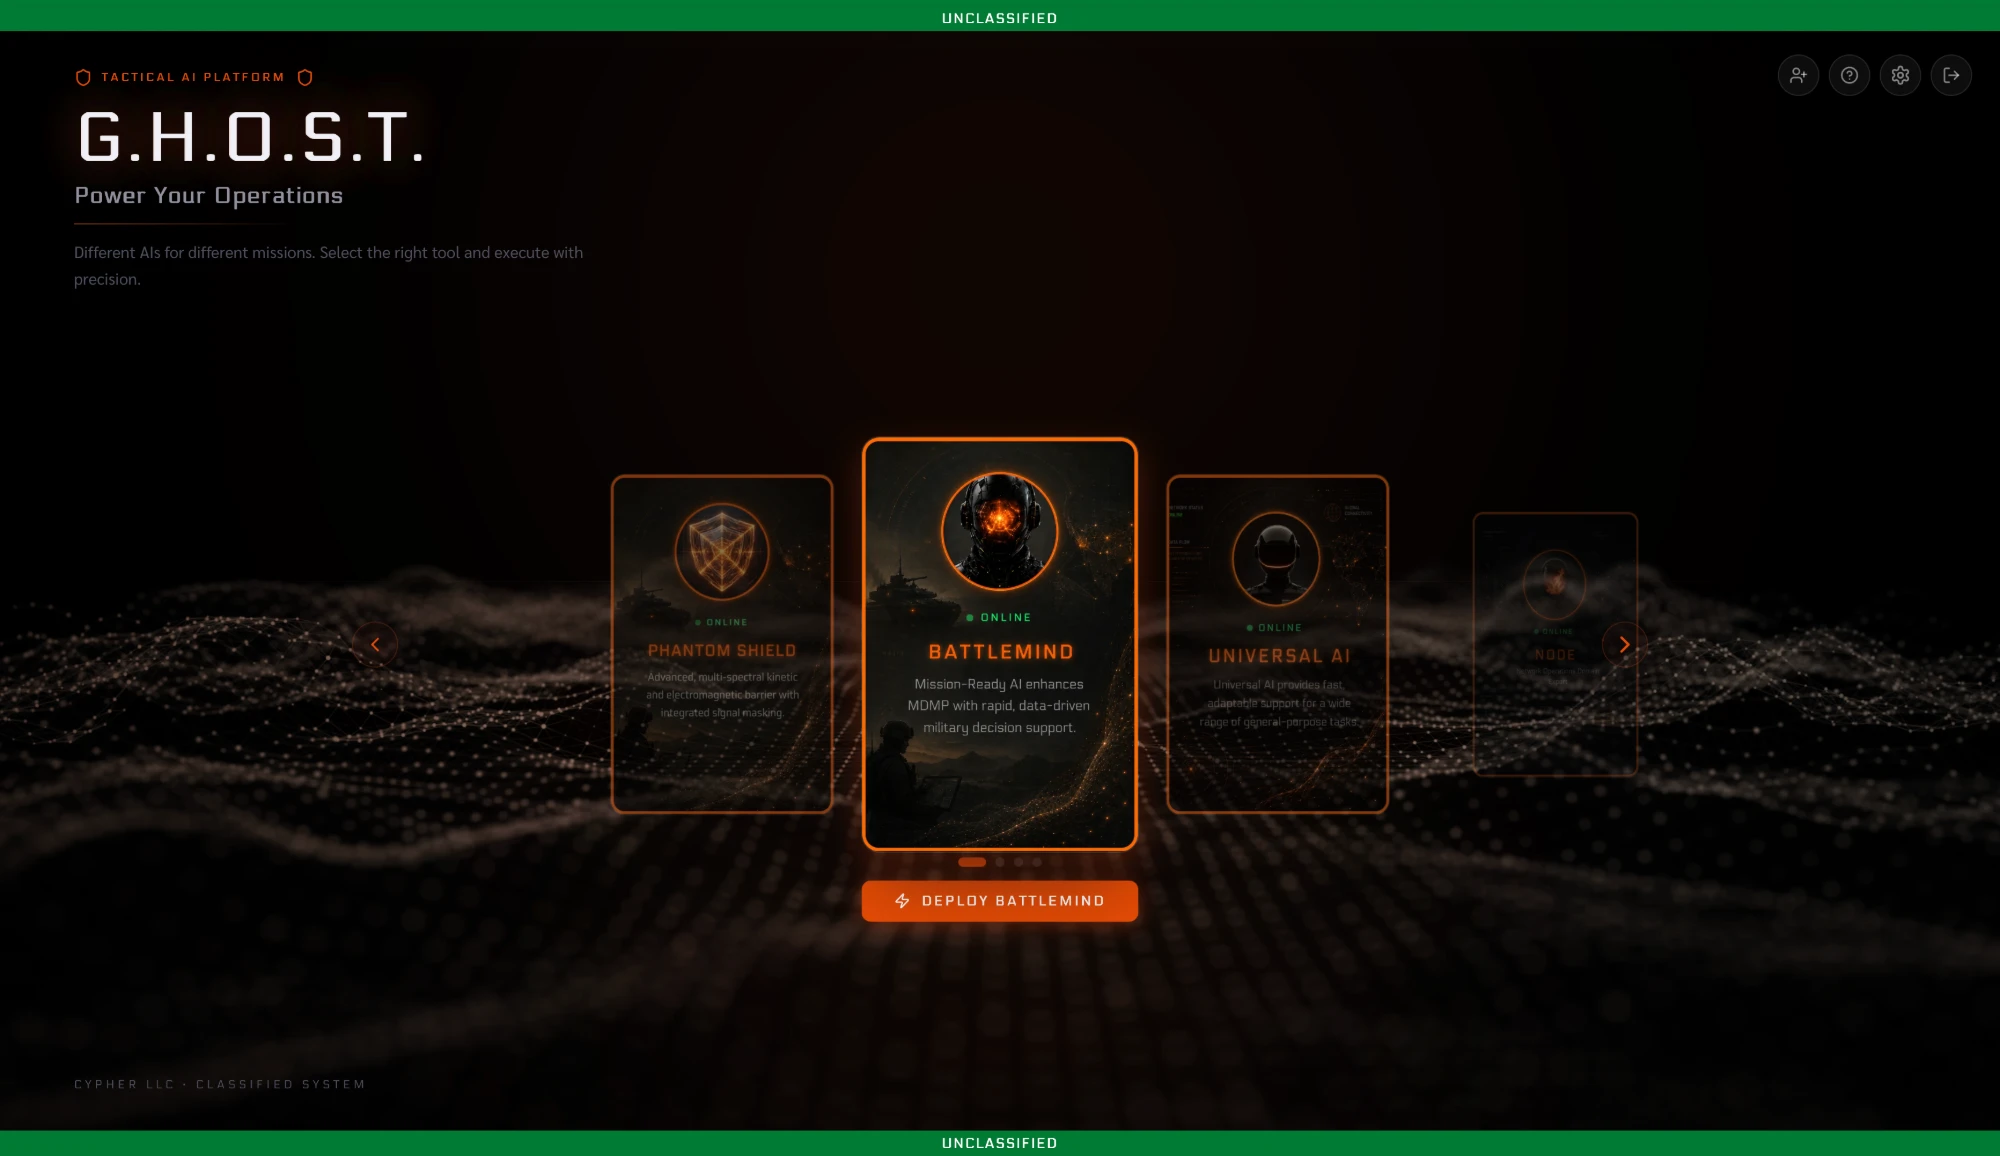
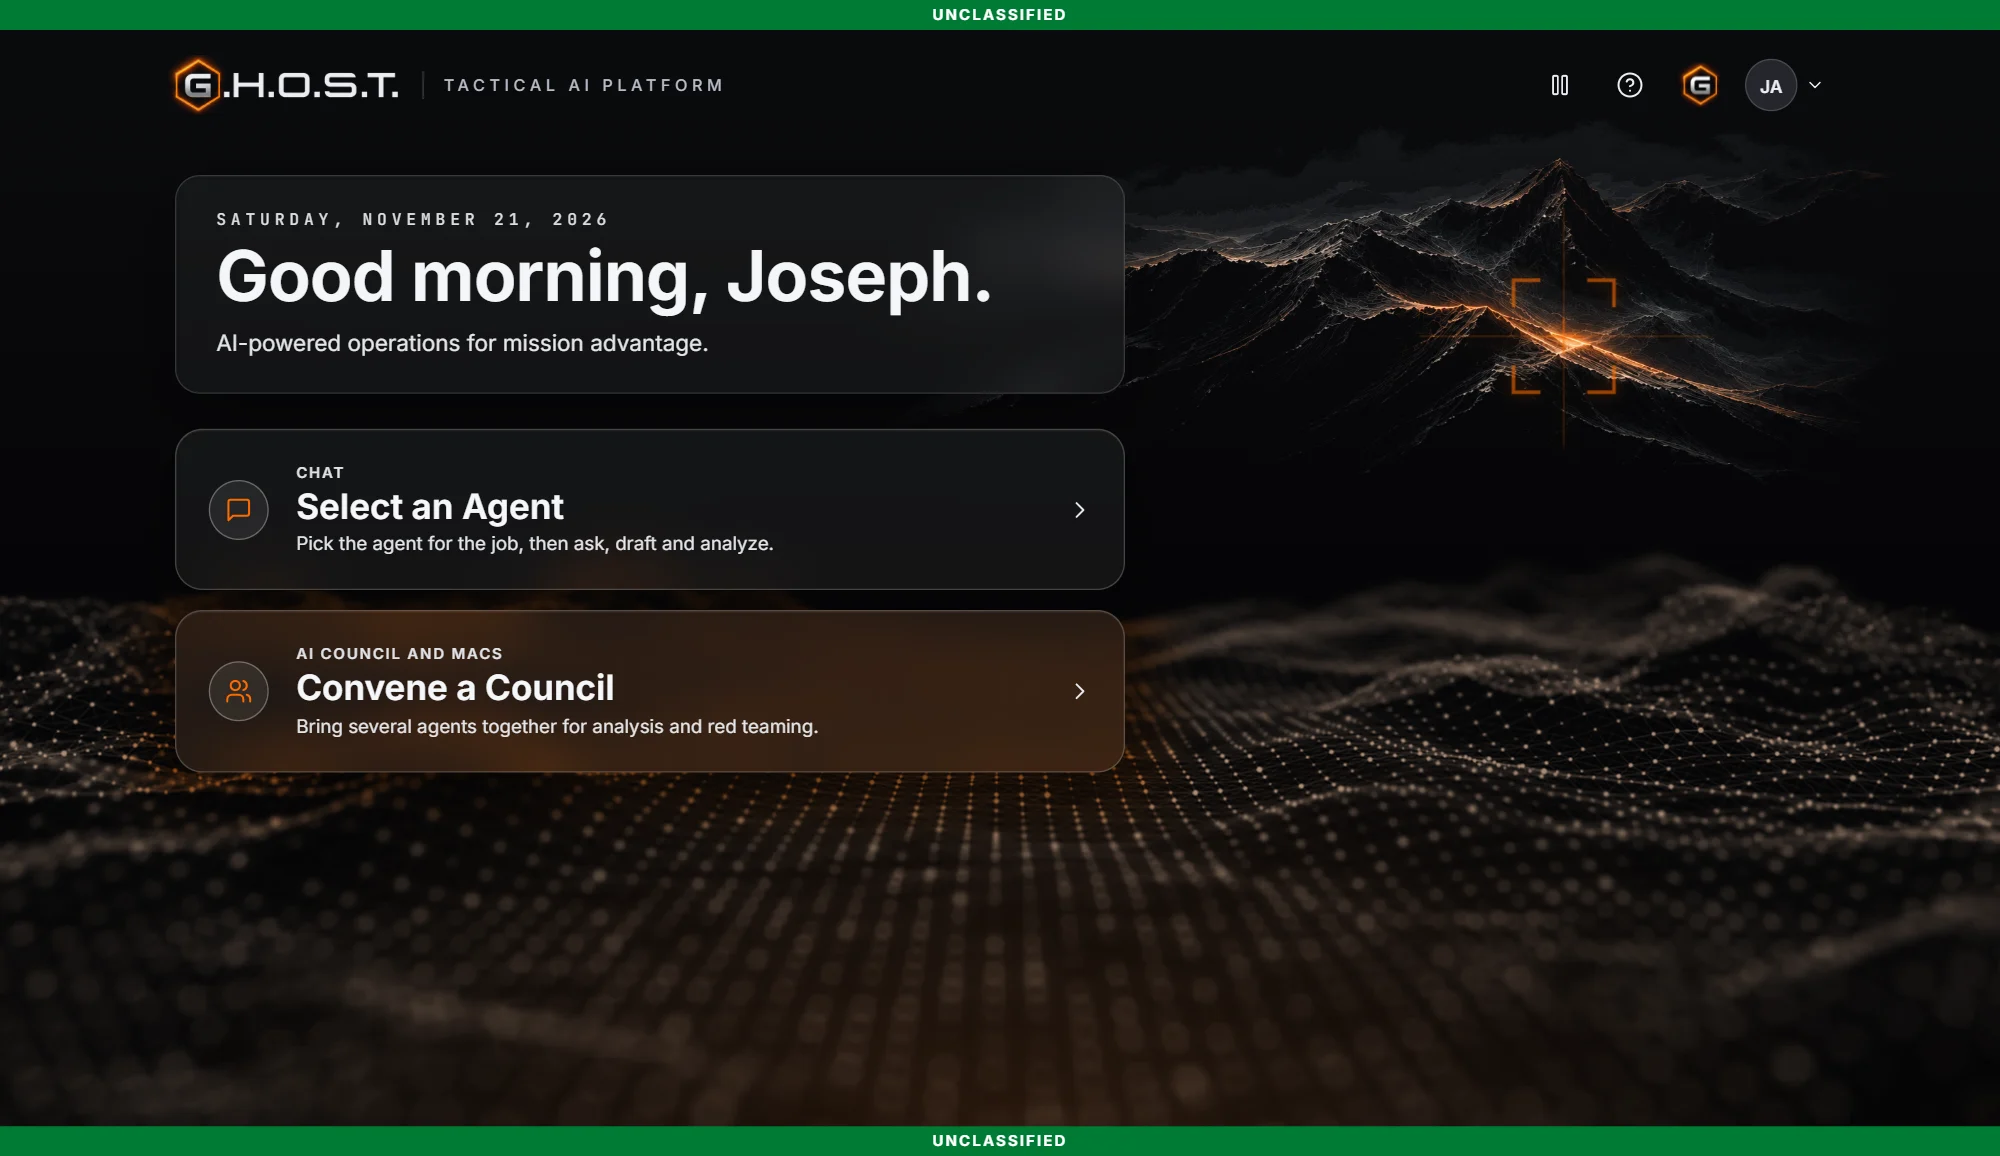
@ New G.H.O.S.T. screens; laptop steps run agents, workflow, Hunter, Fathom; hero laptop stays right; animations kept on mid-size windows
@

diff --git a/css/site.css b/css/site.css
@@ -115,7 +115,10 @@ h3 { font-size: clamp(1.15rem, 1rem + .5vw, 1.45rem); line-height: 1.25; }
 .hero-tag { margin-top: 34px; font: 500 12px/1.4 var(--disp); letter-spacing: .3em; text-transform: uppercase; color: var(--muted); }
 .hero-media { position: relative; }
 .hero-media::before { content: ""; position: absolute; left: 8%; right: 8%; bottom: -4%; height: 26%; background: radial-gradient(closest-side, rgba(255,107,0,.35), transparent); filter: blur(22px); z-index: -1; }
-@media (max-width: 960px) { .hero { min-height: 0; padding-top: 120px; } .hero .wrap { grid-template-columns: 1fr; } }
+@media (min-width: 961px) { .hero-media { left: min(calc((100vw - min(var(--wrap), 100vw - 56px)) / 2 - 22px), 120px); } }
+@media (max-width: 960px) { .hero { min-height: 0; padding-top: 120px; } .hero .wrap { grid-template-columns: minmax(0, 1fr) minmax(0, 1.15fr); gap: 24px; } }
+@media (max-width: 960px) and (min-width: 601px) { .hero h1 { font-size: clamp(1.6rem, 1rem + 2.4vw, 2.4rem); } .hero-logo { width: clamp(180px, 24vw, 250px); } }
+@media (max-width: 600px) { .hero .wrap { grid-template-columns: 1fr; } }
 
 /* ---------- MacBook (real frame, logo wiped) ---------- */
 .mbk { position: relative; width: 100%; aspect-ratio: 1208 / 700; margin: 0; }
@@ -169,7 +172,13 @@ h3 { font-size: clamp(1.15rem, 1rem + .5vw, 1.45rem); line-height: 1.25; }
 html:not(.js) .morph-track, html:not(.js) .morph-stage { height: auto; }
 html:not(.js) .morph-stage { position: static; display: block; }
 html:not(.js) .mstep { position: static; opacity: 1; transform: none; width: auto; padding: 20px 0; text-align: left; }
-@media (max-width: 860px) {
+@media (max-width: 1100px) and (min-width: 601px) {
+  .morph-screen { width: 52%; }
+  .mstep { width: 22%; }
+  .mstep h3 { font-size: clamp(1.15rem, .8rem + 1.1vw, 1.6rem); }
+  .mstep p { font-size: .92rem; }
+}
+@media (max-width: 600px) {
   .morph-track { height: auto; margin-top: 0; }
   .morph-stage { position: static; height: auto; display: block; }
   .morph-screen { position: relative; top: auto; width: 100%; margin: 0 auto 26px; }
@@ -240,7 +249,8 @@ html:not(.js) .mstep { position: static; opacity: 1; transform: none; width: aut
 .archx-layer { padding: 12px 0; border-top: 1px solid rgba(255,107,0,.25); text-align: left; }
 .archx-layer strong { display: block; color: var(--ink); font-size: .96rem; }
 .archx-layer span { display: block; color: var(--body); font-size: .84rem; line-height: 1.4; margin-top: 2px; }
-@media (max-width: 900px) { .archx { grid-template-columns: 1fr; } .archx-flow { display: none; } }
+@media (max-width: 900px) and (min-width: 601px) { .archx { gap: 18px; } .archx-col { padding: 16px 14px; } .archx-item { gap: 10px; min-height: 64px; } .archx-logos { min-width: 30px; } .archx-logos img { height: 20px; } .archx-txt strong { font-size: .88rem; } .archx-txt span { font-size: .78rem; } }
+@media (max-width: 600px) { .archx { grid-template-columns: 1fr; } .archx-flow { display: none; } }
 .modes { display: grid; grid-template-columns: repeat(4, 1fr); gap: clamp(24px, 3vw, 48px); margin-top: clamp(48px, 6vw, 84px); }
 .mode { border-top: 2px solid var(--orange); padding-top: 20px; }
 .mode svg { width: 34px; height: 34px; color: var(--orange); stroke-width: 1.4; margin-bottom: 16px; }
@@ -429,17 +439,19 @@ html:not(.js) .capx-panel + .capx-panel { margin-top: 56px; padding-top: 40px; b
   .capx-tt small { display: none; }
 }
 @media (max-width: 860px) {
+  .capx-tiers { grid-template-columns: minmax(0, 1fr); }
+  .capx-pillars { grid-template-columns: minmax(0, 1fr); }
+  .capx-bar { gap: 14px; padding: 12px 16px; font-size: 10px; }
+  .capx-stat:nth-of-type(1) { display: none; }
+  .capx-track span { max-width: 22%; }
+}
+@media (max-width: 600px) {
   .capx-pipe { grid-template-columns: minmax(0, 1fr); gap: 4px; padding-left: 4px; margin-top: 26px; }
   .capx-pipe::before { left: 21px; right: auto; top: 8px; bottom: 28px; width: 2px; height: auto; background: linear-gradient(180deg, var(--line-hi), var(--line-hi)); }
   .capx-pipe::after { display: none; }
   .capx-pipe li { display: grid; grid-template-columns: 44px minmax(0, 1fr); column-gap: 18px; text-align: left; padding: 10px 0; }
   .capx-dot { margin: 0; grid-row: 1 / span 2; }
   .capx-pipe li > span:last-child { margin-top: 2px; }
-  .capx-tiers { grid-template-columns: minmax(0, 1fr); }
-  .capx-pillars { grid-template-columns: minmax(0, 1fr); }
-  .capx-bar { gap: 14px; padding: 12px 16px; font-size: 10px; }
-  .capx-stat:nth-of-type(1) { display: none; }
-  .capx-track span { max-width: 22%; }
 }
 @media (prefers-reduced-motion: reduce) {
   .capx-led, .capx-loop em, .capx-foot i, .capx-track u, .capx-pipe::after, .capx-panel, .capx-pipe li { animation: none; }

diff --git a/index.html b/index.html
@@ -8,7 +8,7 @@
 <meta name="theme-color" content="#050507">
 <link rel="icon" href="assets/img/favicon.svg" type="image/svg+xml"><link rel="icon" href="assets/img/favicon.png" type="image/png"><link rel="apple-touch-icon" href="assets/img/favicon.png">
 <link rel="preload" href="assets/fonts/inter-var.woff2" as="font" type="font/woff2" crossorigin>
-<link rel="stylesheet" href="css/site.css?v=20261121b">
+<link rel="stylesheet" href="css/site.css?v=20261121g">
 <script>document.documentElement.className+=" js"</script>
 </head>
 <body>
@@ -34,7 +34,7 @@
       <p class="hero-tag">One platform. Any mission. Anywhere.</p>
     </div>
     <figure class="hero-media" data-reveal style="--d:2">
-      <div class="mbk"><div class="mbk-glass"><img src="assets/img/shots/home.webp" alt="G.H.O.S.T. agent selection screen: Phantom Shield, BattleMind, Universal AI and NODE." width="2000" height="1156"></div><img class="mbk-frame" src="assets/img/mock/macbook-frame.png" alt="" aria-hidden="true"></div>
+      <div class="mbk"><div class="mbk-glass"><img src="assets/img/shots/home.webp?v=20261121c" alt="G.H.O.S.T. welcome screen: select an agent or convene a council of agents." width="2000" height="1156"></div><img class="mbk-frame" src="assets/img/mock/macbook-frame.png" alt="" aria-hidden="true"></div>
     </figure>
   </div>
 </section>
@@ -78,8 +78,8 @@
   <div class="wrap"><div class="section-head center" data-reveal><span class="eyebrow">See it work</span><h2 id="how-h">Pick an agent. Give it your files. Get a cited answer.</h2></div></div>
   <div class="morph-track">
     <div class="morph-stage">
-      <figure class="morph-screen"><div class="mbk"><div class="mbk-glass"><img src="assets/img/shots/home.webp" alt="" loading="lazy"><img src="assets/img/shots/approve.webp" alt="" loading="lazy"><img src="assets/img/shots/workflow.webp" alt="" loading="lazy"><img src="assets/img/shots/portfolio.webp" alt="" loading="lazy"></div><img class="mbk-frame" src="assets/img/mock/macbook-frame.png" alt="" aria-hidden="true"></div></figure>
-      <div class="morph-texts"><article class="mstep on"><span class="mno">Step 1</span><h3>Choose the agent for the job.</h3><p>Each agent is built for one mission area. Pick one from the roster, or let G.H.O.S.T. Mode choose the team for you.</p></article><article class="mstep"><span class="mno">Step 2</span><h3>Approve the mission.</h3><p>State the task in plain language and attach your files. The plan is shown first, and nothing runs until a person approves it.</p></article><article class="mstep"><span class="mno">Step 3</span><h3>Watch it work.</h3><p>Every step shows on screen: what it searched, which documents it read, and which model it used.</p></article><article class="mstep"><span class="mno">Step 4</span><h3>Review the findings.</h3><p>Results arrive ranked, with evidence, assumptions and gaps, ready for a person to review and approve.</p></article></div>
+      <figure class="morph-screen"><div class="mbk"><div class="mbk-glass"><img src="assets/img/shots/agents.webp?v=20261121c" alt="" loading="lazy"><img src="assets/img/shots/workflow.webp?v=20261121c" alt="" loading="lazy"><img src="assets/img/shots/approve.webp" alt="" loading="lazy"><img src="assets/img/shots/portfolio.webp" alt="" loading="lazy"></div><img class="mbk-frame" src="assets/img/mock/macbook-frame.png" alt="" aria-hidden="true"></div></figure>
+      <div class="morph-texts"><article class="mstep on"><span class="mno">Step 1</span><h3>Choose the agent for the job.</h3><p>Each agent is built for one mission area. Pick one from the roster, or let G.H.O.S.T. Mode choose the team for you.</p></article><article class="mstep"><span class="mno">Step 2</span><h3>Watch it work.</h3><p>Every step shows on screen: what it searched, which documents it read, and which model it used.</p></article><article class="mstep"><span class="mno">Step 3</span><h3>Approve the mission.</h3><p>State the task in plain language and attach your files. The plan is shown first, and nothing runs until a person approves it.</p></article><article class="mstep"><span class="mno">Step 4</span><h3>Review the findings.</h3><p>Results arrive ranked, with evidence, assumptions and gaps, ready for a person to review and approve.</p></article></div>
     </div>
   </div>
   <div class="wrap"><p class="lead" style="margin:0 auto;text-align:center;font-size:.98rem;color:var(--muted)">Real G.H.O.S.T. screens. Names and files shown are sample data.</p></div>
@@ -326,6 +326,6 @@
   </div>
 </footer>
 <script src="https://challenges.cloudflare.com/turnstile/v0/api.js" async defer></script>
-<script src="js/site.js?v=4" defer></script>
+<script src="js/site.js?v=5" defer></script>
 </body>
 </html>

diff --git a/js/site.js b/js/site.js
@@ -47,7 +47,7 @@
     var track = morph.querySelector('.morph-track');
     var N = steps.length || 1;
     var render = function () {
-      if (!track || window.innerWidth <= 860) return;
+      if (!track || window.innerWidth <= 600) return;
       var total = track.offsetHeight - window.innerHeight;
       var p = total > 0 ? Math.min(Math.max(-track.getBoundingClientRect().top / total, 0), 1) : 0;
       var seg = p * N;
